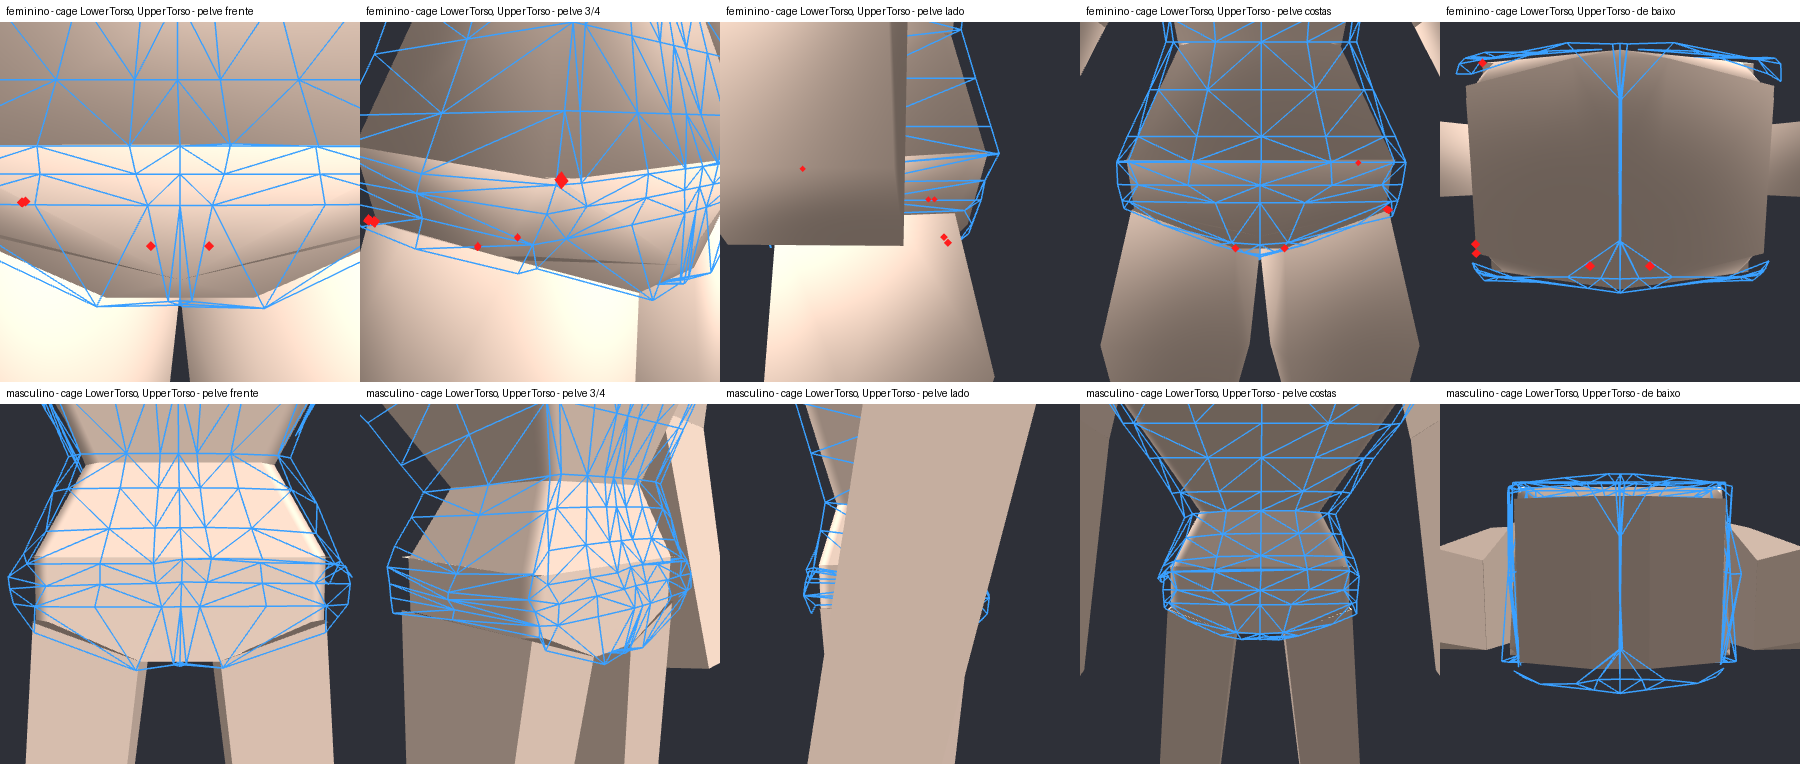
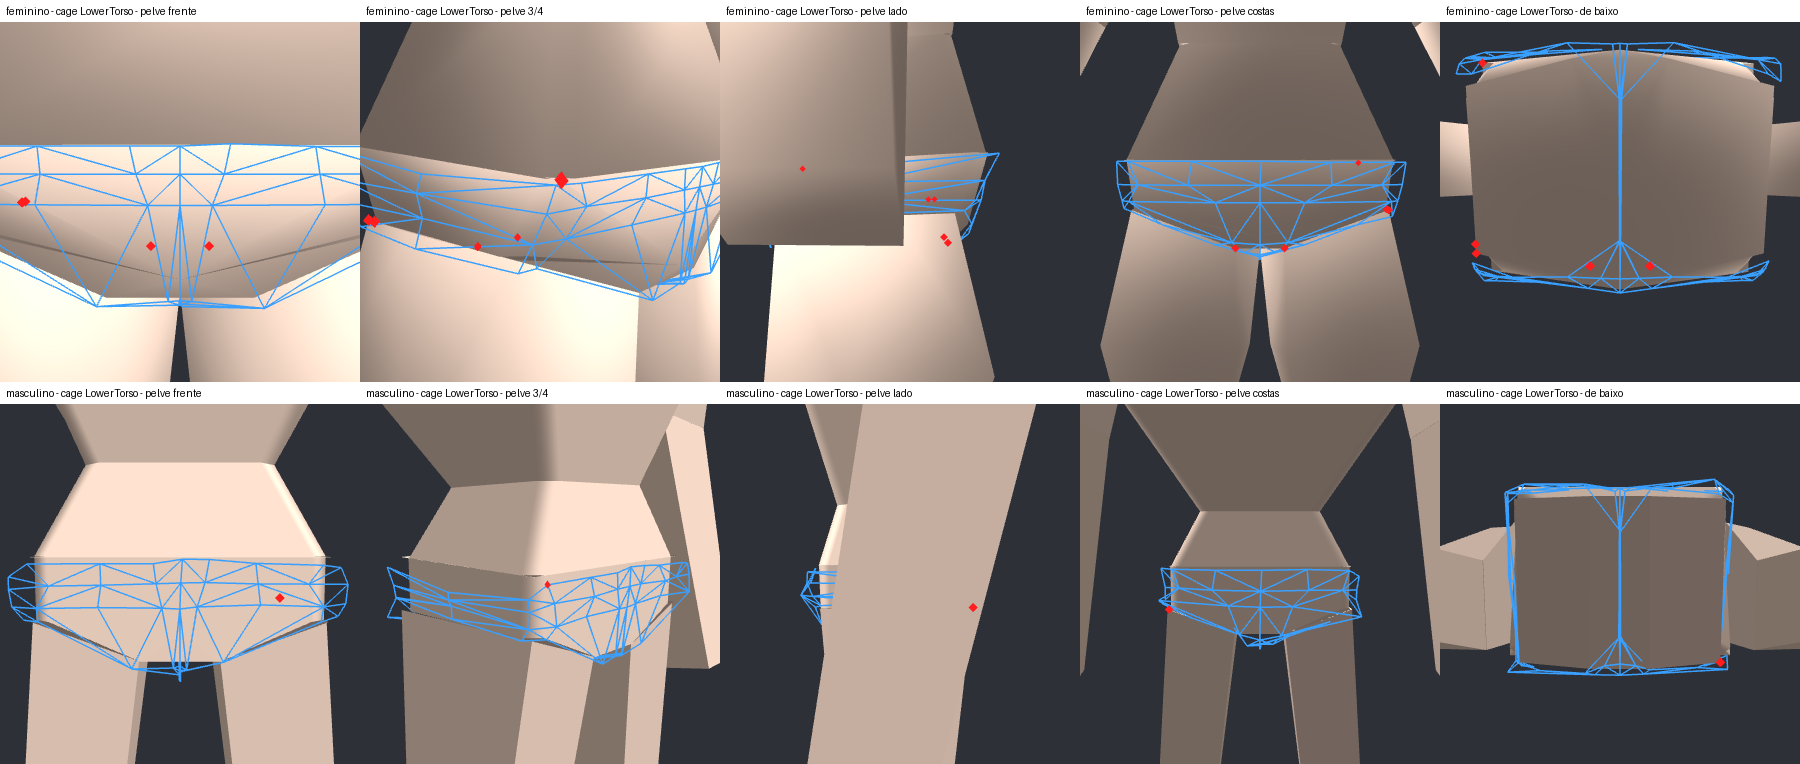
fix(clothing): pelve masculina mapeada eixo a eixo (sem torção)
O mapa trilinear por caixas torcia as laterais do quadril (ficam muito fora
da caixa estreita da virilha). Agora largura, profundidade e altura são
mapeadas cada uma por conta própria: a extensão do corpo (pelve + topo das
coxas, que no masculino são mais largas que a pelve) é escalada e a folga da
cage fora do corpo é mantida; faces planas continuam planas. As colisões
restantes (coxas masculinas sobem mais) são resolvidas com inflação larga e
suave em vez de empurrões locais.

Pelve: 1 amostra furando de 322, 0 pontos dentro; distância 1,4 cm.

diff --git a/scripts/build_male_cage.py b/scripts/build_male_cage.py
@@ -387,6 +387,36 @@ def quadrant_rings(vertices, levels):
     return np.array(rings)
 
 
+def _map_axis(values, f_low, f_high, m_low, m_high):
+    """Inside [f_low, f_high] scale onto [m_low, m_high]; outside keep the distance to the edge."""
+    scaled = m_low + (values - f_low) * (m_high - m_low) / (f_high - f_low)
+    return np.where(values < f_low, m_low + (values - f_low), np.where(values > f_high, m_high + (values - f_high), scaled))
+
+
+def axis_transfer(points, f_rings, m_rings, female_skin, male_skin):
+    """Points mapped axis by axis: the body's extent is scaled, the cage's offset outside it kept.
+
+    Width and depth come from the whole skin at the part's height (the male thighs
+    stick out wider than the male pelvis); height is piecewise linear through the
+    rings' heights. Each axis is mapped on its own, so flat cage faces stay flat and
+    horizontal bands stay horizontal (the trilinear box map twisted the hip sides),
+    and the cage keeps the female cage's distance outside the body.
+    """
+    f_h, m_h = f_rings[:, :, UP].mean(1), m_rings[:, :, UP].mean(1)
+    def extent(skin, low, high):
+        v = skin[(skin[:, UP] >= low) & (skin[:, UP] <= high)]
+        return v.min(0), v.max(0)
+    f_min, f_max = extent(female_skin, f_h[0], f_h[-1])
+    m_min, m_max = extent(male_skin, m_h[0], m_h[-1])
+    result = np.empty_like(points)
+    for axis in (0, 2):
+        result[:, axis] = _map_axis(points[:, axis], f_min[axis], f_max[axis], m_min[axis], m_max[axis])
+    result[:, UP] = _map_axis(points[:, UP], f_h[0], f_h[-1], m_h[0], m_h[-1])
+    inside = (points[:, UP] >= f_h[0]) & (points[:, UP] <= f_h[-1])
+    result[inside, UP] = np.interp(points[inside, UP], f_h, m_h)
+    return result
+
+
 def box_transfer(points, female_vertices, male_vertices, rows, f_rings=None, m_rings=None):
     """Points moved cell by cell between the stacked boxes of the two body groups.
 
@@ -535,7 +565,7 @@ def main():
             group, f_levels, m_levels = LEVEL_RINGS[part]
             k = groups.index(group)
             f_rings, m_rings = quadrant_rings(female_groups[k][0], f_levels), quadrant_rings(male_groups[k][0], m_levels)
-            male_cage = box_transfer(cage, None, None, None, f_rings, m_rings)
+            male_cage = axis_transfer(cage, f_rings, m_rings, merged(female_groups)[0], merged(male_groups)[0])
         elif part in LANDMARKS:
             k = groups.index(LANDMARKS[part])
             male_cage = landmark_transfer(cage, female_groups[k][0], male_groups[k][0])
@@ -575,7 +605,8 @@ def main():
         if stage != "transfer" and part not in LEVEL_RINGS:  # the box transfer already fits flat faces
             male_cage = shrink_wrap(male_cage, female_distance, *male_skin, cage_faces, fixed)
         if stage == "all":
-            male_cage = resolve_collisions(male_cage, cage_faces, *male_skin, visible["masculino"], fixed=fixed)
+            male_cage = resolve_collisions(male_cage, cage_faces, *male_skin, visible["masculino"], fixed=fixed,
+                                           spread=0.9 if part in LEVEL_RINGS else 0.5)  # wide, smooth bulge
         entry_seam = len(seam_points)
         entry = {"pontos": int(len(cage)), "pontos_de_costura_com_partes_anteriores": entry_seam}
         for name, points, skin in (("feminino", cage, female_skin), ("masculino", male_cage, male_skin)):
